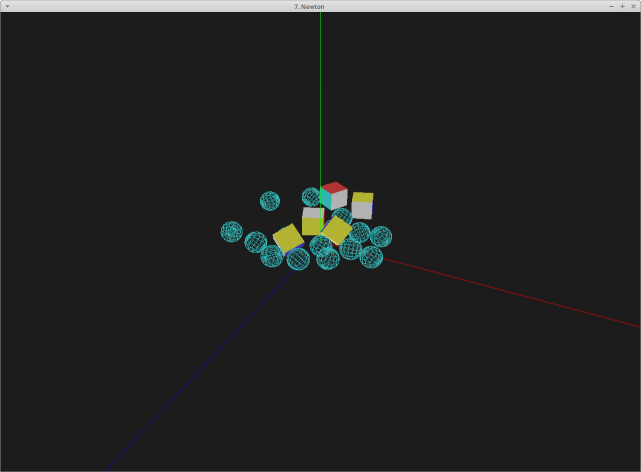
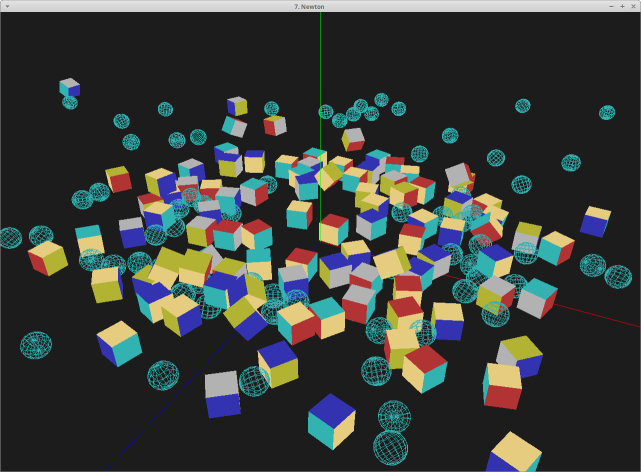
more callback news

diff --git a/ru.md b/ru.md
@@ -74,7 +74,8 @@ Ol реализован как расширенное подмножество S
     * тестирую обратные вызовы на библиотеке newton-dynamics. сделал визуализацию миксом newton-dynamics+opengl, оно работает!
       ![screenshot 1](assets/newton1.png)
       ![screenshot 2](assets/newton2.png)
-    * теперь можно попробовать opengl через glut, так как обратные вызовы теперь работают, а glut требует именно их 
+    * теперь можно попробовать opengl через glut, так как обратные вызовы теперь работают, а glut требует именно их
+    * проверил на 11000 (одиннадцати тысячах) объектах. стало притормаживать, но(!) мой лисп справляется с таким количеством, и это не может не радовать! 
   * Sun 07 Aug 2016 00:23 EET
     * УРА! у меня заработали настоящие колбеки (обратные функции) - два месяца мозговых мучений наконец ознаменовались нормальным решением, в качестве примера и рабочей лошадки я использовать библиотеку [newton-dynamics](https://en.wikipedia.org/wiki/Newton_Game_Dynamics) и смог прикрутить к лиспу обработку физики.
       чуть позже добавлю оформлю это все добро примером на OpenGL, где будут падать кубики и мой дорогой Lisp сможет покорить еще одну вершину - математические расчеты в физических симуляциях! 
